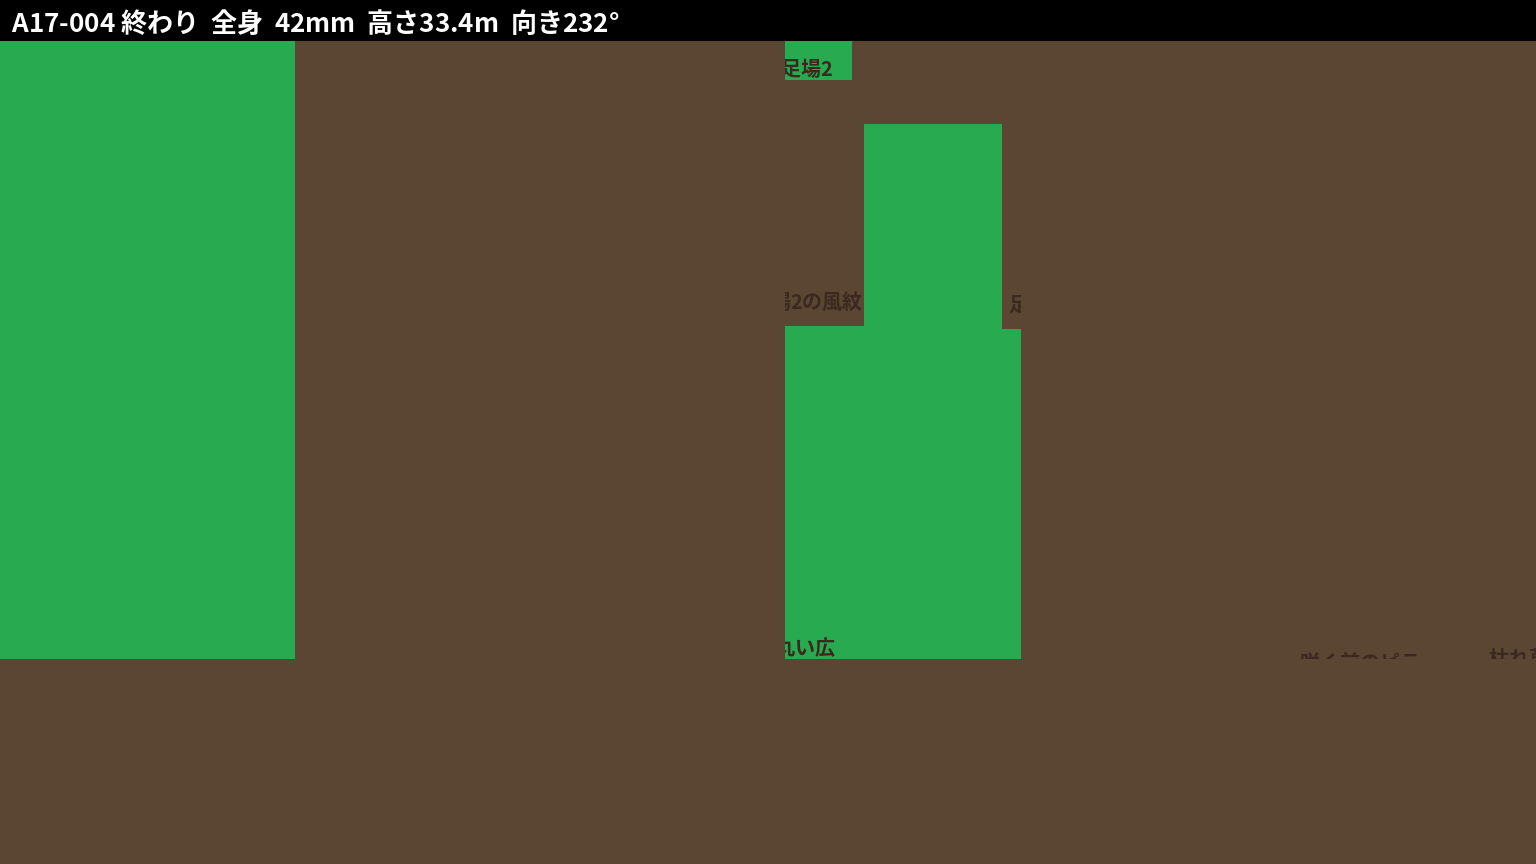
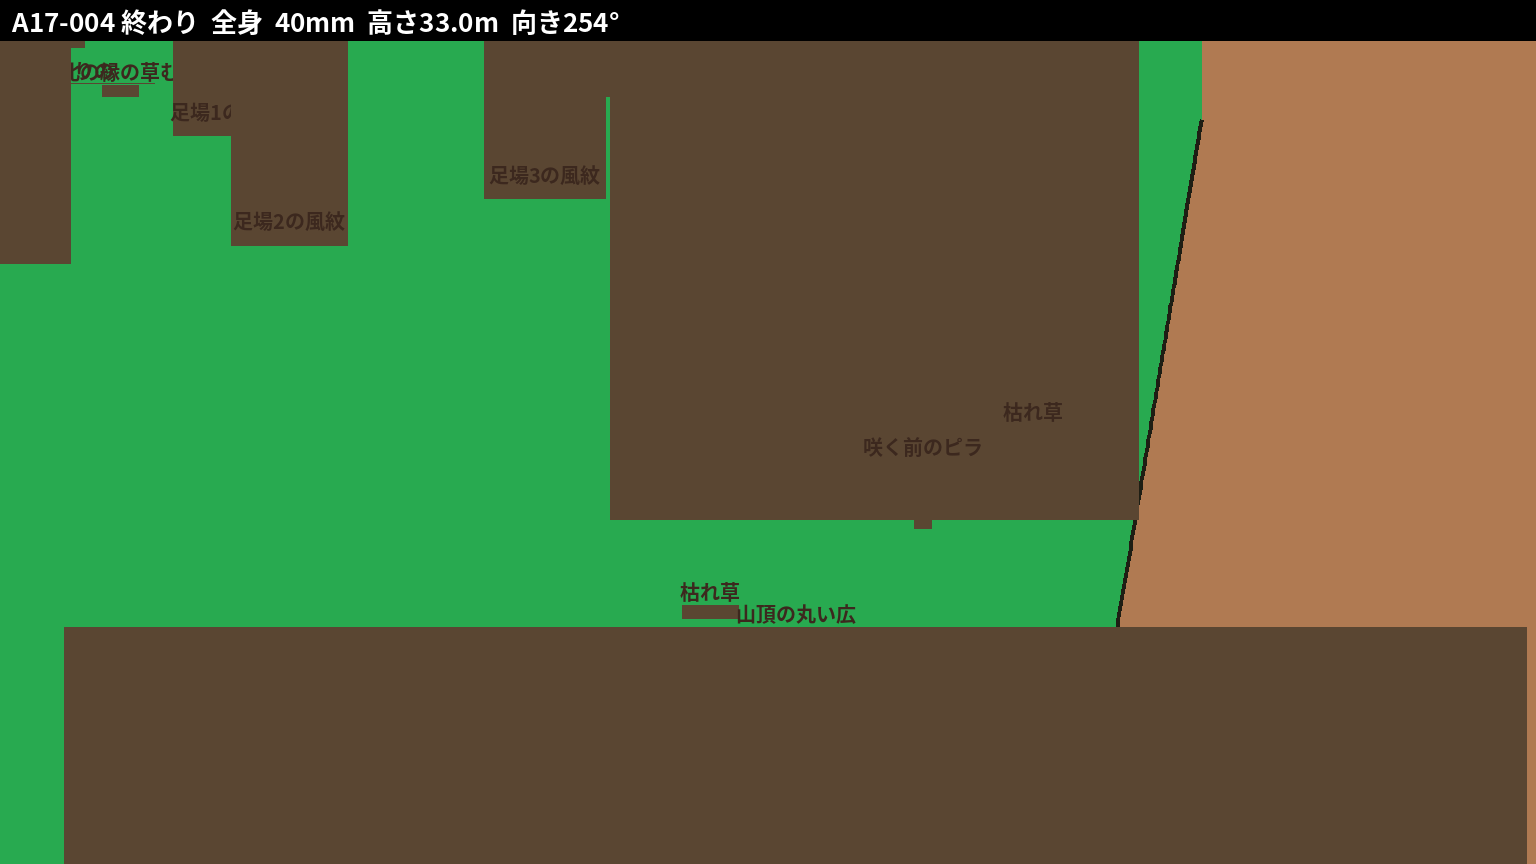
A17-004 を東の縁（テレッサの頭上）からに（北東からだと木の像が踊りの輪にかかる）
Claude-Session: https://claude.ai/code/session_01FyK1WbVhRw1asnQ1TV3L4R

diff --git a/episodes/A/scenes/A17/gen/staging_report.md b/episodes/A/scenes/A17/gen/staging_report.md
@@ -8,7 +8,7 @@
 | 001 | 引き | 高台の南（森側）・高い位置・24mm・3° | パ（中央・正面）、百（中央・横顔（画面右向き））、リ（中央・正面）、ビ（中央・斜め後ろ（画面右向き））、メ（中央・斜め前（画面左向き））、ル（中央・横顔（画面右向き））、ア（中央・横顔（画面左向き））、ラ（中央・正面）、ウ（中央・正面）、テレ（中央・斜め前（画面左向き））、ベ（中央・斜め前（画面左向き）） | パ（中央・正面）、百（中央・斜め後ろ（画面右向き））、リ（中央・正面）、ビ（中央・背中）、メ（中央・背中）、ル（中央・背中）、ア（中央・斜め後ろ（画面左向き））、ラ（中央・正面）、ウ（中央・正面）、テレ（中央・斜め前（画面左向き））、ベ（中央・斜め前（画面左向き）） | 夜の山頂の広場〔山頂〕 |
 | 002 | 全身 | 崖の外（沼の上）・高い位置・28mm・177° | ア（中央・正面）、メ（中央・正面）、ル（中央・正面）、ビ（中央・正面）、百（中央・正面） | ア（中央・正面）、メ（中央・正面）、ル（中央・正面）、ビ（中央・正面）、百（中央・正面） | 夜の山頂の広場〔山頂〕 |
 | 003 | 全身 | 高台の東・高い位置・30mm・353° | パ（中央・正面）、リ（中央・正面）、メ（中央・背中）、ア（中央・斜め後ろ（画面左向き））、ラ（中央・正面）、ウ（中央・正面）、テレ（中央・斜め前（画面左向き））、ベ（中央・斜め前（画面左向き）） | パ（中央・正面）、リ（中央・正面）、メ（中央・斜め後ろ（画面右向き））、ア（中央・斜め後ろ（画面左向き））、ラ（中央・正面）、テレ（中央・斜め前（画面左向き））、ウ（中央・正面）、ベ（中央・斜め前（画面左向き）） | 夜の山頂の広場〔山頂〕 |
-| 004 | 全身 | 崖の外（沼の上）・高い位置・36mm・232° | ビ（中央・斜め前（画面右向き））、テレ（中央・背中）、ベ（中央・背中）、メ（中央・正面）、ウ（中央・斜め後ろ（画面左向き））、ラ（中央・横顔（画面左向き））、パ（右・斜め前（画面左向き））、リ（右・斜め前（画面左向き）） | ビ（中央・斜め前（画面右向き））、テレ（中央・背中）、メ（中央・背中）、ベ（中央・背中）、ウ（中央・斜め後ろ（画面左向き））、ラ（中央・横顔（画面左向き））、パ（右・斜め前（画面左向き））、リ（右・斜め前（画面左向き）） | 夜の山頂の広場〔山頂〕 |
+| 004 | 全身 | 崖の外（沼の上）・高い位置・34mm・254° | ビ（中央・斜め前（画面右向き））、メ（中央・斜め前（画面右向き））、テレ（中央・斜め後ろ（画面左向き））、ベ（中央・横顔（画面左向き））、ウ（中央・横顔（画面左向き））、ラ（中央・横顔（画面左向き））、パ（右・斜め前（画面左向き））、リ（右・斜め前（画面左向き）） | ビ（中央・斜め前（画面右向き））、メ（中央・斜め後ろ（画面左向き））、テレ（中央・斜め後ろ（画面左向き））、ベ（中央・横顔（画面左向き））、ウ（右・横顔（画面左向き））、ラ（右・横顔（画面左向き））、パ（右・斜め前（画面左向き））、リ（右・斜め前（画面左向き）） | 夜の山頂の広場〔山頂〕 |
 | 005 | 寄り | 崖の縁・高い位置・36mm・72° | メ（中央・斜め前（画面右向き）） | メ（中央・横顔（画面左向き）） | 夜の山頂の広場〔山頂〕 |
 | 006 | 全身（煽り） | 高台の東・高い位置・30mm・335° | パ（中央・正面）、メ（中央・斜め後ろ（画面左向き））、リ（中央・正面） | パ（中央・正面）、メ（中央・斜め後ろ（画面左向き））、リ（中央・正面） | 夜の山頂の広場〔山頂〕 |
 | 007 | 全身 | 崖の縁・高い位置・32mm・18° | メ（中央・横顔（画面左向き））、ラ（中央・正面）、ウ（中央・正面）、ベ（中央・正面） | メ（中央・横顔（画面左向き））、ラ（中央・正面）、ウ（中央・正面）、ベ（中央・正面） | 夜の山頂の広場〔山頂〕 |
